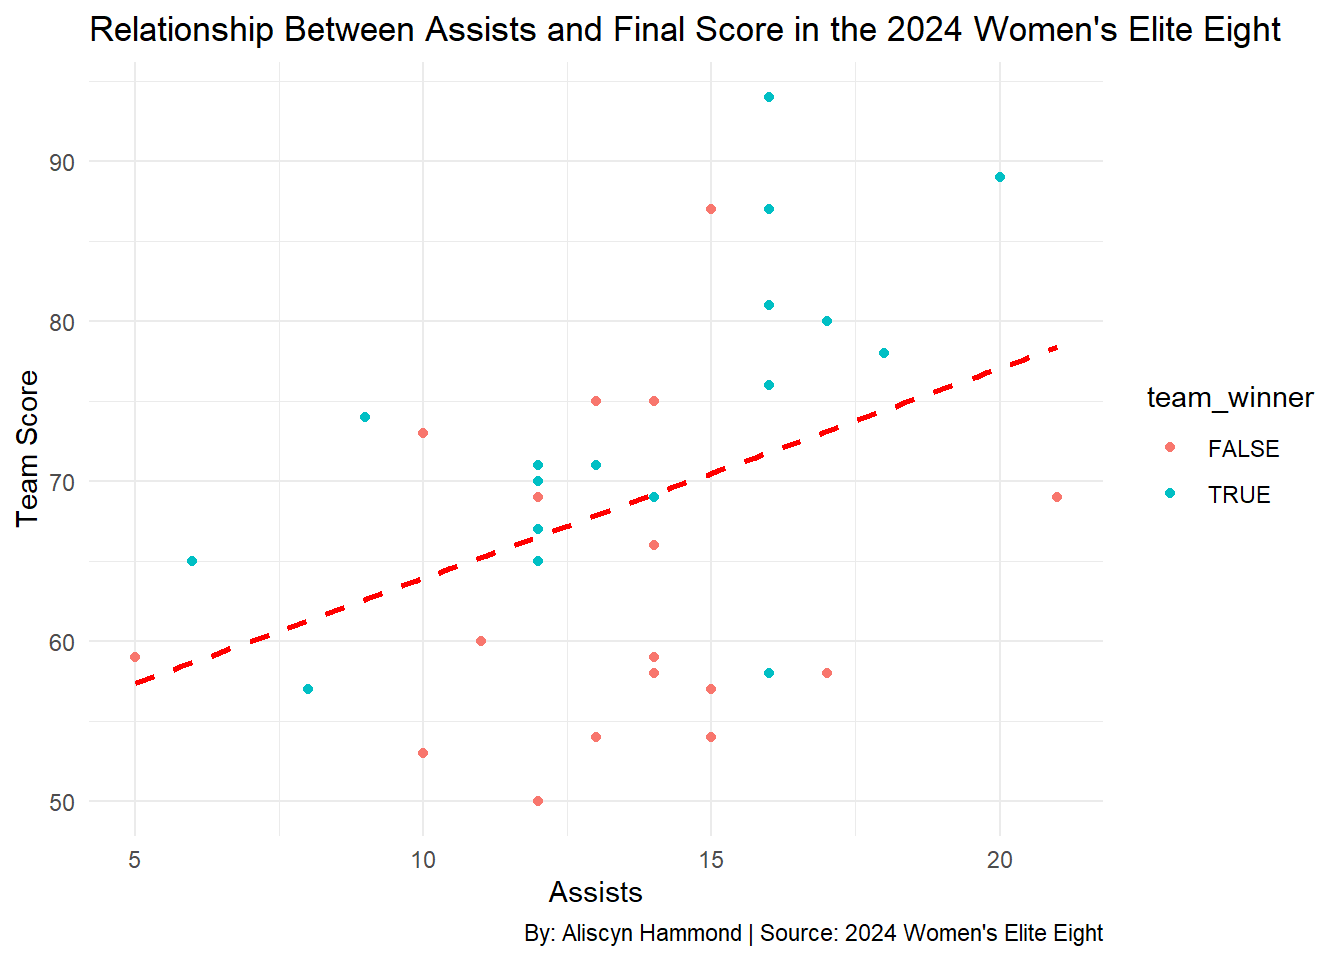
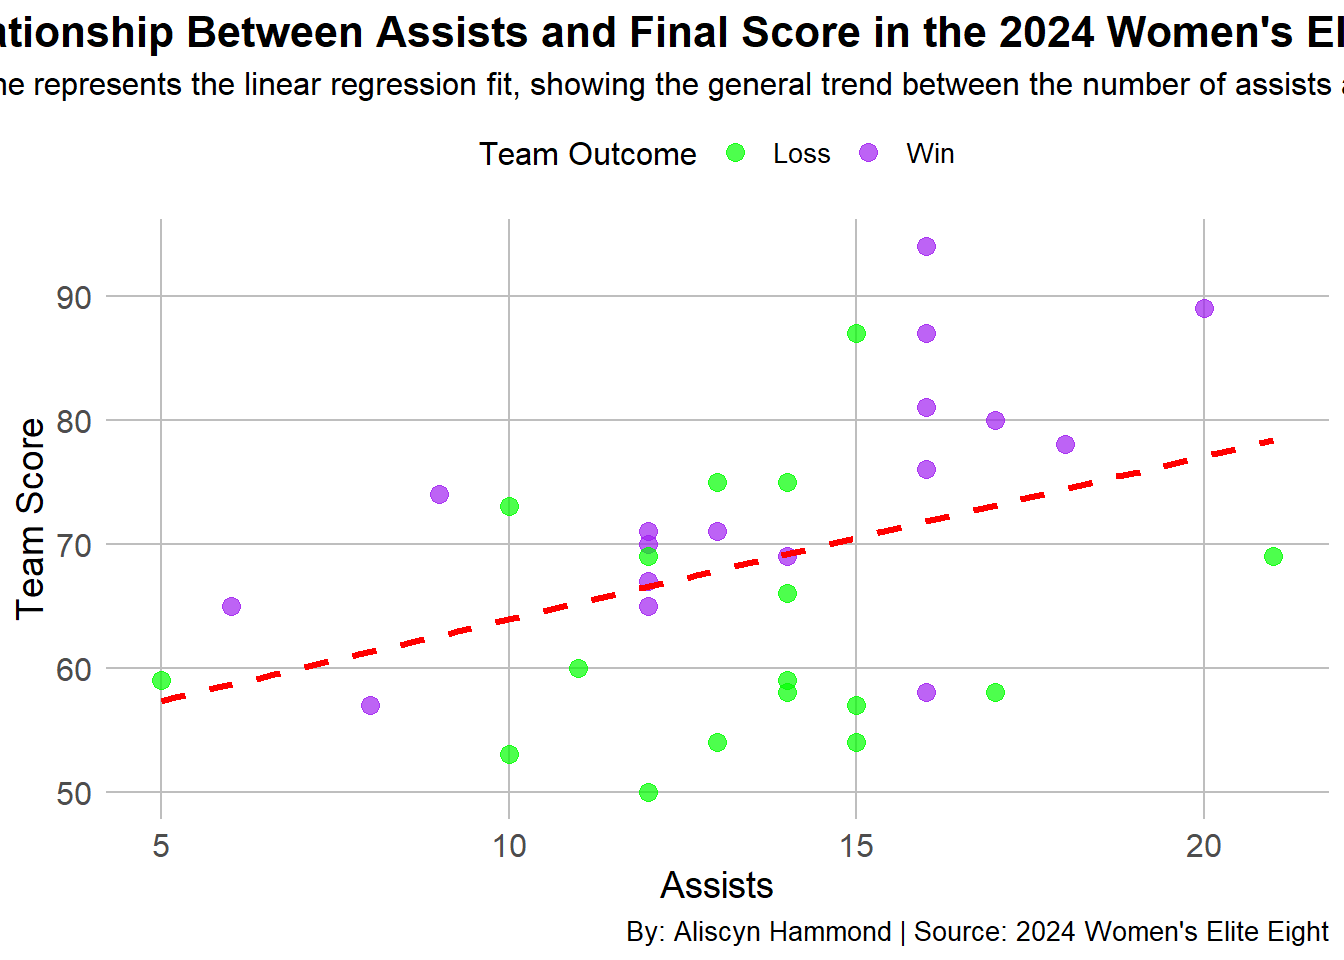
edited scatterplot

diff --git a/posts/elite-eight-women-basketball/index.html b/posts/elite-eight-women-basketball/index.html
@@ -207,14 +207,34 @@ pre > code.sourceCode > span > a:first-child::before { text-decoration: underlin
 <span id="cb1-5"><a href="#cb1-5" aria-hidden="true" tabindex="-1"></a></span>
 <span id="cb1-6"><a href="#cb1-6" aria-hidden="true" tabindex="-1"></a>eliteclean <span class="ot">&lt;-</span> elite[,<span class="fu">c</span>(<span class="st">"game_id"</span>,<span class="st">"team_name"</span>,<span class="st">"team_score"</span>,<span class="st">"assists"</span>,<span class="st">"team_winner"</span>)]</span>
 <span id="cb1-7"><a href="#cb1-7" aria-hidden="true" tabindex="-1"></a></span>
-<span id="cb1-8"><a href="#cb1-8" aria-hidden="true" tabindex="-1"></a><span class="fu">ggplot</span>(eliteclean,<span class="fu">aes</span>(<span class="at">x=</span>assists,<span class="at">y=</span>team_score,<span class="at">color=</span>team_winner))<span class="sc">+</span></span>
-<span id="cb1-9"><a href="#cb1-9" aria-hidden="true" tabindex="-1"></a>  <span class="fu">geom_point</span>()<span class="sc">+</span></span>
-<span id="cb1-10"><a href="#cb1-10" aria-hidden="true" tabindex="-1"></a>  <span class="fu">geom_smooth</span>(<span class="at">method=</span><span class="st">'lm'</span>,<span class="at">color=</span><span class="st">'red'</span>,<span class="at">linetype=</span><span class="st">"dashed"</span>,<span class="at">se=</span><span class="cn">FALSE</span>)<span class="sc">+</span></span>
-<span id="cb1-11"><a href="#cb1-11" aria-hidden="true" tabindex="-1"></a>  <span class="fu">labs</span>(<span class="at">title=</span><span class="st">"Relationship Between Assists and Final Score in the 2024 Women's Elite Eight"</span>,</span>
-<span id="cb1-12"><a href="#cb1-12" aria-hidden="true" tabindex="-1"></a>       <span class="at">x=</span><span class="st">"Assists"</span>,</span>
-<span id="cb1-13"><a href="#cb1-13" aria-hidden="true" tabindex="-1"></a>       <span class="at">y=</span><span class="st">"Team Score"</span>,</span>
-<span id="cb1-14"><a href="#cb1-14" aria-hidden="true" tabindex="-1"></a>       <span class="at">caption=</span> <span class="st">"By: Aliscyn Hammond | Source: 2024 Women's Elite Eight"</span>)<span class="sc">+</span></span>
-<span id="cb1-15"><a href="#cb1-15" aria-hidden="true" tabindex="-1"></a>  <span class="fu">theme_minimal</span>()</span></code><button title="Copy to Clipboard" class="code-copy-button"><i class="bi"></i></button></pre></div>
+<span id="cb1-8"><a href="#cb1-8" aria-hidden="true" tabindex="-1"></a></span>
+<span id="cb1-9"><a href="#cb1-9" aria-hidden="true" tabindex="-1"></a><span class="fu">ggplot</span>(eliteclean, <span class="fu">aes</span>(<span class="at">x =</span> assists, <span class="at">y =</span> team_score, <span class="at">color =</span> team_winner)) <span class="sc">+</span></span>
+<span id="cb1-10"><a href="#cb1-10" aria-hidden="true" tabindex="-1"></a>  <span class="fu">geom_point</span>(<span class="at">alpha =</span> <span class="fl">0.7</span>, <span class="at">size =</span> <span class="dv">3</span>) <span class="sc">+</span></span>
+<span id="cb1-11"><a href="#cb1-11" aria-hidden="true" tabindex="-1"></a>  <span class="fu">geom_smooth</span>(<span class="at">method =</span> <span class="st">'lm'</span>, <span class="at">color =</span> <span class="st">'red'</span>, <span class="at">linetype =</span> <span class="st">"dashed"</span>,<span class="at">se=</span><span class="cn">FALSE</span>, <span class="at">size =</span> <span class="fl">1.2</span>) <span class="sc">+</span> </span>
+<span id="cb1-12"><a href="#cb1-12" aria-hidden="true" tabindex="-1"></a>  <span class="fu">scale_color_manual</span>(<span class="at">values =</span> <span class="fu">c</span>(<span class="st">"TRUE"</span> <span class="ot">=</span> <span class="st">"purple"</span>, <span class="st">"FALSE"</span> <span class="ot">=</span> <span class="st">"green"</span>),</span>
+<span id="cb1-13"><a href="#cb1-13" aria-hidden="true" tabindex="-1"></a>  <span class="at">labels=</span><span class="fu">c</span>(<span class="st">"TRUE"</span><span class="ot">=</span><span class="st">"Win"</span>,<span class="st">"FALSE"</span><span class="ot">=</span><span class="st">"Loss"</span>)</span>
+<span id="cb1-14"><a href="#cb1-14" aria-hidden="true" tabindex="-1"></a>  ) <span class="sc">+</span></span>
+<span id="cb1-15"><a href="#cb1-15" aria-hidden="true" tabindex="-1"></a>  <span class="fu">labs</span>(</span>
+<span id="cb1-16"><a href="#cb1-16" aria-hidden="true" tabindex="-1"></a>    <span class="at">title =</span> <span class="st">"Relationship Between Assists and Final Score in the 2024 Women's Elite Eight"</span>,</span>
+<span id="cb1-17"><a href="#cb1-17" aria-hidden="true" tabindex="-1"></a>    <span class="at">subtitle =</span> <span class="st">"The &lt;span style='color:red;'&gt;red&lt;/span&gt; dashed line represents the linear regression fit, showing the general trend between the number of assists and the final team score."</span>,</span>
+<span id="cb1-18"><a href="#cb1-18" aria-hidden="true" tabindex="-1"></a>    <span class="at">x =</span> <span class="st">"Assists"</span>,</span>
+<span id="cb1-19"><a href="#cb1-19" aria-hidden="true" tabindex="-1"></a>    <span class="at">y =</span> <span class="st">"Team Score"</span>,</span>
+<span id="cb1-20"><a href="#cb1-20" aria-hidden="true" tabindex="-1"></a>    <span class="at">caption =</span> <span class="st">"By: Aliscyn Hammond | Source: 2024 Women's Elite Eight"</span>,</span>
+<span id="cb1-21"><a href="#cb1-21" aria-hidden="true" tabindex="-1"></a>    <span class="at">color =</span> <span class="st">"Team Outcome"</span></span>
+<span id="cb1-22"><a href="#cb1-22" aria-hidden="true" tabindex="-1"></a>  ) <span class="sc">+</span></span>
+<span id="cb1-23"><a href="#cb1-23" aria-hidden="true" tabindex="-1"></a>  <span class="fu">theme_minimal</span>() <span class="sc">+</span></span>
+<span id="cb1-24"><a href="#cb1-24" aria-hidden="true" tabindex="-1"></a>  <span class="fu">theme</span>(</span>
+<span id="cb1-25"><a href="#cb1-25" aria-hidden="true" tabindex="-1"></a>    <span class="at">plot.title =</span> <span class="fu">element_text</span>(<span class="at">hjust =</span> <span class="fl">0.5</span>, <span class="at">size =</span> <span class="dv">16</span>, <span class="at">face =</span> <span class="st">"bold"</span>),</span>
+<span id="cb1-26"><a href="#cb1-26" aria-hidden="true" tabindex="-1"></a>    <span class="at">plot.subtitle =</span> ggtext<span class="sc">::</span><span class="fu">element_markdown</span>(<span class="at">size =</span> <span class="dv">12</span>, <span class="at">lineheight =</span> <span class="fl">1.2</span>, <span class="at">hjust =</span> <span class="fl">0.5</span>),</span>
+<span id="cb1-27"><a href="#cb1-27" aria-hidden="true" tabindex="-1"></a>    <span class="at">axis.title =</span> <span class="fu">element_text</span>(<span class="at">size =</span> <span class="dv">14</span>),</span>
+<span id="cb1-28"><a href="#cb1-28" aria-hidden="true" tabindex="-1"></a>    <span class="at">axis.text =</span> <span class="fu">element_text</span>(<span class="at">size =</span> <span class="dv">12</span>),</span>
+<span id="cb1-29"><a href="#cb1-29" aria-hidden="true" tabindex="-1"></a>    <span class="at">plot.caption =</span> <span class="fu">element_text</span>(<span class="at">size =</span> <span class="dv">10</span>, <span class="at">hjust =</span> <span class="dv">1</span>),</span>
+<span id="cb1-30"><a href="#cb1-30" aria-hidden="true" tabindex="-1"></a>    <span class="at">legend.position =</span> <span class="st">"top"</span>,  <span class="co"># Move legend to top</span></span>
+<span id="cb1-31"><a href="#cb1-31" aria-hidden="true" tabindex="-1"></a>    <span class="at">legend.title =</span> <span class="fu">element_text</span>(<span class="at">size =</span> <span class="dv">12</span>),</span>
+<span id="cb1-32"><a href="#cb1-32" aria-hidden="true" tabindex="-1"></a>    <span class="at">legend.text =</span> <span class="fu">element_text</span>(<span class="at">size =</span> <span class="dv">10</span>)</span>
+<span id="cb1-33"><a href="#cb1-33" aria-hidden="true" tabindex="-1"></a>  ) <span class="sc">+</span></span>
+<span id="cb1-34"><a href="#cb1-34" aria-hidden="true" tabindex="-1"></a>  <span class="fu">theme</span>(<span class="at">panel.grid.major =</span> <span class="fu">element_line</span>(<span class="at">color =</span> <span class="st">"gray"</span>, <span class="at">size =</span> <span class="fl">0.5</span>),</span>
+<span id="cb1-35"><a href="#cb1-35" aria-hidden="true" tabindex="-1"></a>        <span class="at">panel.grid.minor =</span> <span class="fu">element_blank</span>())</span></code><button title="Copy to Clipboard" class="code-copy-button"><i class="bi"></i></button></pre></div>
 <div class="cell-output-display">
 <div>
 <figure class="figure">
@@ -267,10 +287,6 @@ pre > code.sourceCode > span > a:first-child::before { text-decoration: underlin
 <span id="cb2-38"><a href="#cb2-38" aria-hidden="true" tabindex="-1"></a>    <span class="at">legend.title =</span> <span class="fu">element_blank</span>(), </span>
 <span id="cb2-39"><a href="#cb2-39" aria-hidden="true" tabindex="-1"></a>    <span class="at">legend.position =</span> <span class="st">"top"</span>  </span>
 <span id="cb2-40"><a href="#cb2-40" aria-hidden="true" tabindex="-1"></a>  )</span></code><button title="Copy to Clipboard" class="code-copy-button"><i class="bi"></i></button></pre></div>
-<div class="cell-output cell-output-stderr">
-<pre><code>Warning: Using `size` aesthetic for lines was deprecated in ggplot2 3.4.0.
-ℹ Please use `linewidth` instead.</code></pre>
-</div>
 <div class="cell-output-display">
 <div>
 <figure class="figure">
@@ -283,17 +299,17 @@ pre > code.sourceCode > span > a:first-child::before { text-decoration: underlin
 <p>Assists Distribution: A More Deeper Look into Variability</p>
 <p>Now let’s explore the distribution of assists among winning and losing teams in greater detail. Instead of merely focusing on the averages, we can analyze the spread of assists within each group/team. Do winning teams consistently excel at ball distribution, or do their assist figures fluctuate more than anticipated. Utilizing a boxplot will allow us to visualize the range of assists with highlighting the median, quartiles, and if there are any possible outliers.</p>
 <div class="cell">
-<div class="sourceCode cell-code" id="cb4"><pre class="sourceCode r code-with-copy"><code class="sourceCode r"><span id="cb4-1"><a href="#cb4-1" aria-hidden="true" tabindex="-1"></a><span class="fu">library</span>(tidyverse)</span>
-<span id="cb4-2"><a href="#cb4-2" aria-hidden="true" tabindex="-1"></a><span class="fu">library</span>(ggplot2)</span>
-<span id="cb4-3"><a href="#cb4-3" aria-hidden="true" tabindex="-1"></a></span>
-<span id="cb4-4"><a href="#cb4-4" aria-hidden="true" tabindex="-1"></a><span class="fu">ggplot</span>(elite, <span class="fu">aes</span>(<span class="at">x =</span> <span class="fu">factor</span>(team_winner, <span class="at">labels =</span> <span class="fu">c</span>(<span class="st">"Losing"</span>, <span class="st">"Winning"</span>)), <span class="at">y =</span> assists, <span class="at">fill =</span> team_winner)) <span class="sc">+</span></span>
-<span id="cb4-5"><a href="#cb4-5" aria-hidden="true" tabindex="-1"></a>  <span class="fu">geom_boxplot</span>() <span class="sc">+</span></span>
-<span id="cb4-6"><a href="#cb4-6" aria-hidden="true" tabindex="-1"></a>  <span class="fu">labs</span>(<span class="at">title =</span> <span class="st">"Distribution of Assists by Team Status (Winner vs. Loser)"</span>,</span>
-<span id="cb4-7"><a href="#cb4-7" aria-hidden="true" tabindex="-1"></a>       <span class="at">x =</span> <span class="st">"Team Status"</span>,</span>
-<span id="cb4-8"><a href="#cb4-8" aria-hidden="true" tabindex="-1"></a>       <span class="at">y =</span> <span class="st">"Assists"</span>,</span>
-<span id="cb4-9"><a href="#cb4-9" aria-hidden="true" tabindex="-1"></a>       <span class="at">caption =</span> <span class="st">"By: Aliscyn Hammond | Source: 2024 Women's Elite Eight Dataset"</span>) <span class="sc">+</span></span>
-<span id="cb4-10"><a href="#cb4-10" aria-hidden="true" tabindex="-1"></a>  <span class="fu">scale_fill_manual</span>(<span class="at">values =</span> <span class="fu">c</span>(<span class="st">"red"</span>, <span class="st">"green"</span>)) <span class="sc">+</span></span>
-<span id="cb4-11"><a href="#cb4-11" aria-hidden="true" tabindex="-1"></a>  <span class="fu">theme_minimal</span>()</span></code><button title="Copy to Clipboard" class="code-copy-button"><i class="bi"></i></button></pre></div>
+<div class="sourceCode cell-code" id="cb3"><pre class="sourceCode r code-with-copy"><code class="sourceCode r"><span id="cb3-1"><a href="#cb3-1" aria-hidden="true" tabindex="-1"></a><span class="fu">library</span>(tidyverse)</span>
+<span id="cb3-2"><a href="#cb3-2" aria-hidden="true" tabindex="-1"></a><span class="fu">library</span>(ggplot2)</span>
+<span id="cb3-3"><a href="#cb3-3" aria-hidden="true" tabindex="-1"></a></span>
+<span id="cb3-4"><a href="#cb3-4" aria-hidden="true" tabindex="-1"></a><span class="fu">ggplot</span>(elite, <span class="fu">aes</span>(<span class="at">x =</span> <span class="fu">factor</span>(team_winner, <span class="at">labels =</span> <span class="fu">c</span>(<span class="st">"Losing"</span>, <span class="st">"Winning"</span>)), <span class="at">y =</span> assists, <span class="at">fill =</span> team_winner)) <span class="sc">+</span></span>
+<span id="cb3-5"><a href="#cb3-5" aria-hidden="true" tabindex="-1"></a>  <span class="fu">geom_boxplot</span>() <span class="sc">+</span></span>
+<span id="cb3-6"><a href="#cb3-6" aria-hidden="true" tabindex="-1"></a>  <span class="fu">labs</span>(<span class="at">title =</span> <span class="st">"Distribution of Assists by Team Status (Winner vs. Loser)"</span>,</span>
+<span id="cb3-7"><a href="#cb3-7" aria-hidden="true" tabindex="-1"></a>       <span class="at">x =</span> <span class="st">"Team Status"</span>,</span>
+<span id="cb3-8"><a href="#cb3-8" aria-hidden="true" tabindex="-1"></a>       <span class="at">y =</span> <span class="st">"Assists"</span>,</span>
+<span id="cb3-9"><a href="#cb3-9" aria-hidden="true" tabindex="-1"></a>       <span class="at">caption =</span> <span class="st">"By: Aliscyn Hammond | Source: 2024 Women's Elite Eight Dataset"</span>) <span class="sc">+</span></span>
+<span id="cb3-10"><a href="#cb3-10" aria-hidden="true" tabindex="-1"></a>  <span class="fu">scale_fill_manual</span>(<span class="at">values =</span> <span class="fu">c</span>(<span class="st">"red"</span>, <span class="st">"green"</span>)) <span class="sc">+</span></span>
+<span id="cb3-11"><a href="#cb3-11" aria-hidden="true" tabindex="-1"></a>  <span class="fu">theme_minimal</span>()</span></code><button title="Copy to Clipboard" class="code-copy-button"><i class="bi"></i></button></pre></div>
 <div class="cell-output-display">
 <div>
 <figure class="figure">

diff --git a/index.html b/index.html
@@ -210,7 +210,7 @@ window.Quarto = {
 
 <div class="quarto-listing quarto-listing-container-default" id="listing-listing">
 <div class="list quarto-listing-default">
-<div class="quarto-post image-right" data-index="0" data-categories="YmFza2V0YmFsbCx3b21lbiBzcG9ydHMsZWxpdGUgZWlnaHQ=" data-listing-date-sort="1731304800000" data-listing-file-modified-sort="1731452033886" data-listing-date-modified-sort="NaN" data-listing-reading-time-sort="6" data-listing-word-count-sort="1130">
+<div class="quarto-post image-right" data-index="0" data-categories="YmFza2V0YmFsbCx3b21lbiBzcG9ydHMsZWxpdGUgZWlnaHQ=" data-listing-date-sort="1731304800000" data-listing-file-modified-sort="1731452961391" data-listing-date-modified-sort="NaN" data-listing-reading-time-sort="7" data-listing-word-count-sort="1322">
 <div class="thumbnail">
 <p><a href="./posts/elite-eight-women-basketball/index.html" class="no-external"></a></p><a href="./posts/elite-eight-women-basketball/index.html" class="no-external">
 <p><img loading="lazy" src="./posts/elite-eight-women-basketball/image.png" class="thumbnail-image"></p>
